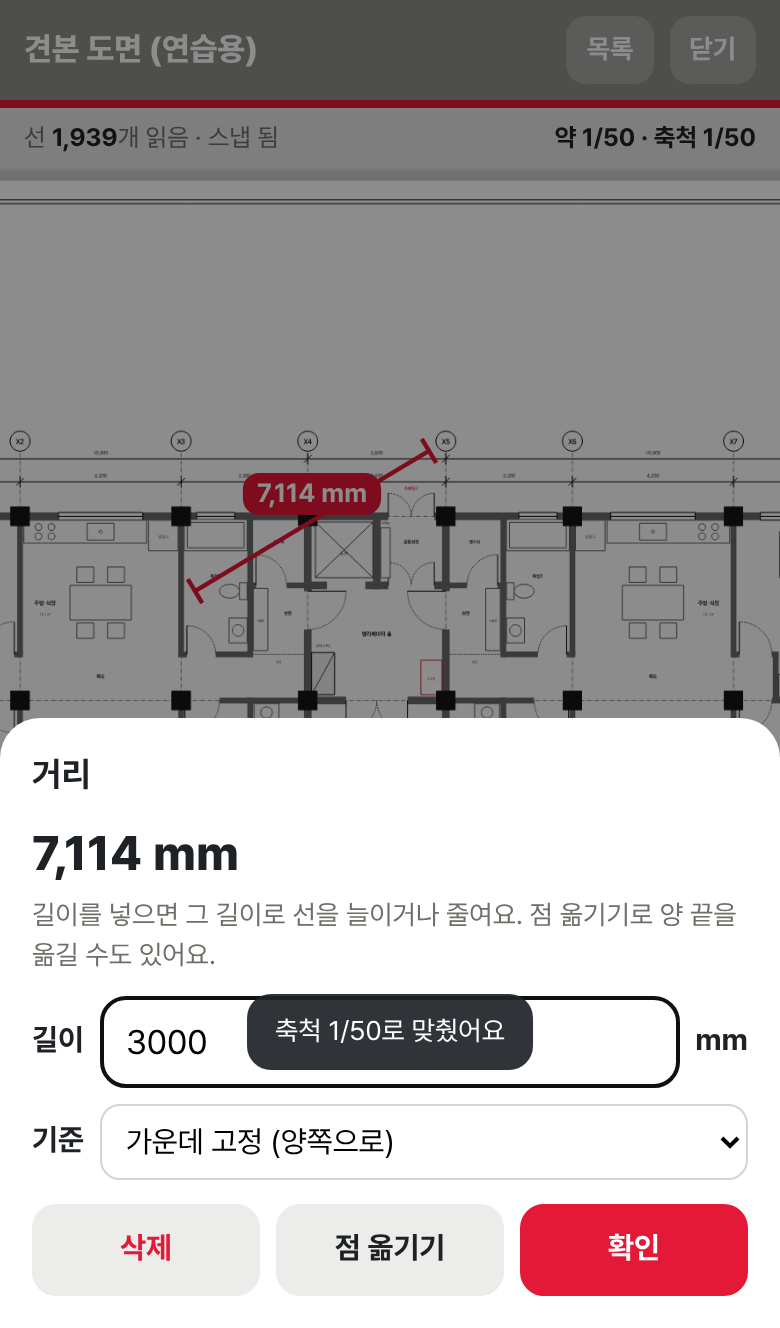
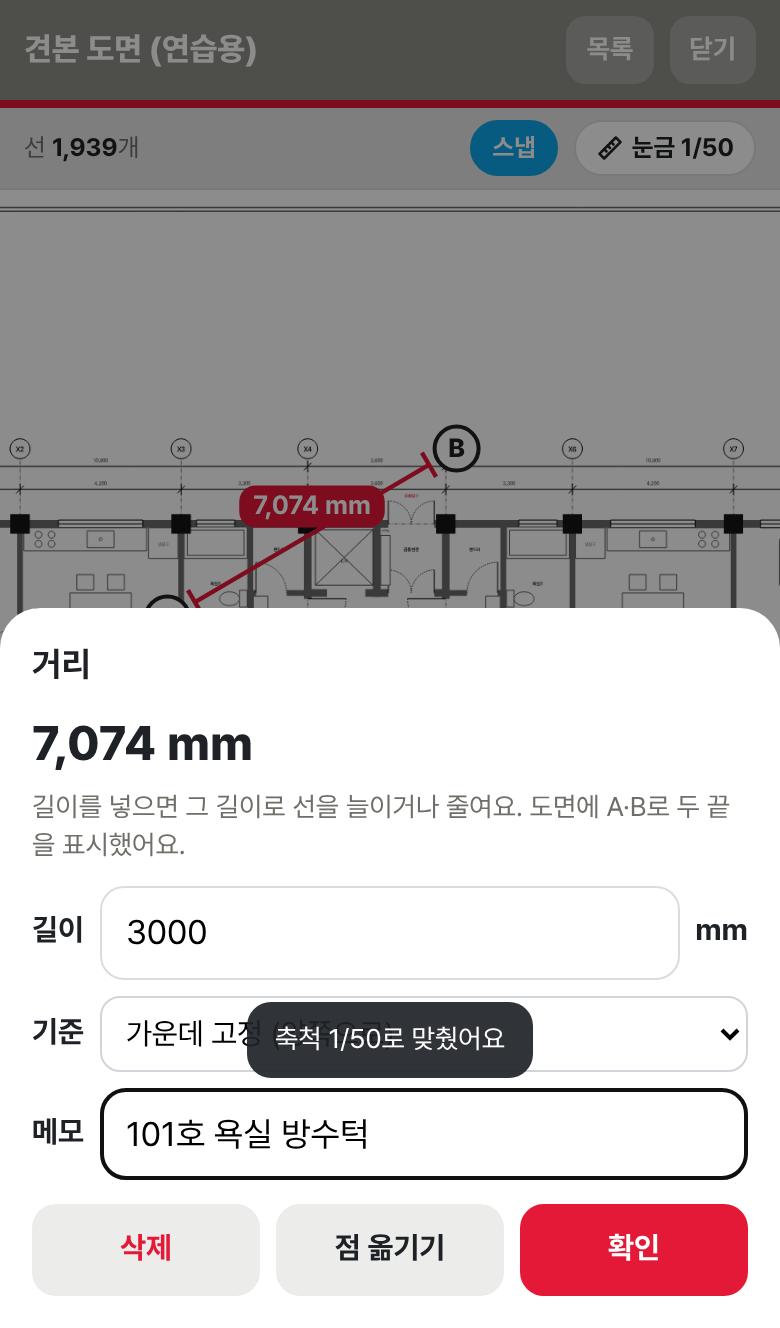
4.61 측정: 눈금·스냅을 위쪽 칩으로, 이동 안내 문구 삭제, 잰 값 메모 (#106)
Claude-Session: https://claude.ai/code/session_01EtHbhsZCrxUT5zDHCagWW6

diff --git a/measure/index.html b/measure/index.html
@@ -18,8 +18,13 @@ header button,header select{border:0;border-radius:10px;background:rgba(255,255,
 header select option{color:#000}
 #info{position:fixed;left:0;right:0;z-index:4;padding:6px max(12px,var(--sal));font-size:12.5px;color:var(--sub);background:rgba(228,230,227,.92);border-bottom:1px solid var(--line);display:flex;gap:8px;align-items:center}
 #info b{color:var(--ink)}
-#info .sc{margin-left:auto;font-weight:700;color:var(--ink);white-space:nowrap}
-#info .sc.no{color:var(--red)}
+#info #lineInfo{min-width:0;overflow:hidden;text-overflow:ellipsis;white-space:nowrap}
+#info .ichip{border:1px solid var(--line);background:#fff;border-radius:999px;font:inherit;font-size:12.5px;font-weight:700;padding:4px 10px;color:var(--ink);white-space:nowrap;display:inline-flex;align-items:center;gap:4px}
+#info .ichip svg{width:14px;height:14px;fill:none;stroke:currentColor;stroke-width:2.2;stroke-linecap:round;stroke-linejoin:round}
+#info .ichip.snap{margin-left:auto;color:var(--sub)}
+#info .ichip.snap.on{background:var(--snap);border-color:var(--snap);color:#fff}
+#info .ichip.sc.no{color:var(--red);border-color:var(--red)}
+#info .ichip.sc.on{background:var(--ink);border-color:var(--ink);color:#fff}
 #stage{position:fixed;left:0;right:0;bottom:0;overflow:hidden;touch-action:none;background:#D3D6D2}
 #world{position:absolute;left:0;top:0;transform-origin:0 0;will-change:transform}
 #world canvas{display:block;background:#fff;box-shadow:0 2px 16px rgba(0,0,0,.18)}
@@ -83,7 +88,7 @@ header select option{color:#000}
   <button id="lsBtn">목록</button>
   <button id="openBtn">도면 열기</button>
 </header>
-<div id="info"><span id="lineInfo">도면을 열어 주세요</span><span class="sc no" id="scInfo"></span></div>
+<div id="info"><span id="lineInfo">도면을 열어 주세요</span><button class="ichip snap on" id="snapBtn" hidden>스냅</button><button class="ichip sc no" id="scInfo" hidden></button></div>
 <div id="stage">
   <div id="world"><canvas id="base"></canvas></div>
   <canvas id="detail"></canvas>
@@ -94,13 +99,11 @@ header select option{color:#000}
 <div id="bar">
   <div id="tools">
     <button data-m="view" class="on"><svg viewBox="0 0 24 24"><path d="M12 3v18M3 12h18M12 3l-3 3M12 3l3 3M12 21l-3-3M12 21l3-3M3 12l3-3M3 12l3 3M21 12l-3-3M21 12l-3 3"/></svg>이동</button>
-    <button data-m="cal"><svg viewBox="0 0 24 24"><path d="M3 17 17 3l4 4L7 21z"/><path d="M7 13l2 2M10 10l2 2M13 7l2 2"/></svg>눈금</button>
     <button data-m="dist"><svg viewBox="0 0 24 24"><path d="M4 12h16M4 8v8M20 8v8M7 9l-3 3 3 3M17 9l3 3-3 3"/></svg>거리</button>
     <button data-m="area"><svg viewBox="0 0 24 24"><path d="M4 7 13 3l7 7-4 10H6z" fill="currentColor" fill-opacity=".18"/></svg>면적</button>
     <button data-m="gap"><svg viewBox="0 0 24 24"><path d="M3 5h18M3 19h18M12 5v14M9 8l3-3 3 3M9 16l3 3 3-3"/></svg>선 간격</button>
-    <button class="snap on" id="snapBtn"><svg viewBox="0 0 24 24"><path d="M6 3v8a6 6 0 0 0 12 0V3"/><path d="M6 7h4M14 7h4"/></svg>스냅</button>
   </div>
-  <div id="sub"><span id="hint">두 손가락으로 확대·이동해요.</span><button id="areaOk" hidden style="background:var(--red);color:#fff;border-color:var(--red)">면적 완료</button><button id="ptDel" hidden style="color:var(--red)">점 지우기</button><button id="undoBtn" class="ic" aria-label="되돌리기" title="되돌리기"><svg viewBox="0 0 24 24"><path d="M9 14 4 9l5-5"/><path d="M4 9h10a6 6 0 0 1 0 12h-3"/></svg></button><button id="redoBtn" class="ic" aria-label="다시 하기" title="다시 하기"><svg viewBox="0 0 24 24"><path d="m15 14 5-5-5-5"/><path d="M20 9H10a6 6 0 0 0 0 12h3"/></svg></button><button id="clrBtn">지우기</button></div>
+  <div id="sub"><span id="hint"></span><button id="areaOk" hidden style="background:var(--red);color:#fff;border-color:var(--red)">면적 완료</button><button id="ptDel" hidden style="color:var(--red)">점 지우기</button><button id="undoBtn" class="ic" aria-label="되돌리기" title="되돌리기"><svg viewBox="0 0 24 24"><path d="M9 14 4 9l5-5"/><path d="M4 9h10a6 6 0 0 1 0 12h-3"/></svg></button><button id="redoBtn" class="ic" aria-label="다시 하기" title="다시 하기"><svg viewBox="0 0 24 24"><path d="m15 14 5-5-5-5"/><path d="M20 9H10a6 6 0 0 0 0 12h3"/></svg></button><button id="clrBtn">지우기</button></div>
 </div>
 <div id="dock" hidden><div id="dockCap"></div><div class="dk">
   <button id="dkL"></button>
@@ -137,6 +140,7 @@ header select option{color:#000}
   <div class="row" id="itCal" hidden><span style="font-weight:700;white-space:nowrap">실제 길이</span><input id="calMm" type="number" inputmode="decimal"><span style="font-weight:700">mm</span></div>
   <div class="row" id="itLen" hidden><span style="font-weight:700;white-space:nowrap">길이</span><input id="lenMm" type="number" inputmode="decimal"><span style="font-weight:700">mm</span></div>
   <div class="row" id="itFix" hidden><span style="font-weight:700;white-space:nowrap">기준</span><select id="lenFix" style="flex:1;min-width:0;font:inherit;padding:8px;border-radius:10px;border:1px solid #D1D5DB;background:#fff"><option value="a">A점 고정 (처음 찍은 점)</option><option value="b">B점 고정 (나중 찍은 점)</option><option value="m">가운데 고정 (양쪽으로)</option></select></div>
+  <div class="row" id="itMemoR"><span style="font-weight:700;white-space:nowrap">메모</span><input id="itMemo" type="text" maxlength="60" placeholder="예: 101호 욕실 방수턱" style="flex:1;min-width:0"></div>
   <p id="itVol" style="font-weight:700;color:var(--ink)"></p>
   <div class="btns"><button id="itDel" style="color:var(--red)">삭제</button><button id="itMove">점 옮기기</button><button class="pri" id="itOk">확인</button></div>
 </div></div>
@@ -202,8 +206,8 @@ function listItems(){
   $("#lsSum").innerHTML=A.length?`<div class="lssum"><small>면적 합계 (${A.length}개)</small><b>${S.mmPerU?f2(sa)+" m²":"눈금 없음"}</b></div><div class="lssum"><small>부피 합계</small><b>${sv?f2(sv)+" m³":"-"}</b></div>`:"";
   const row=(it,no,cls,t1,t2)=>`<button class="lsrow" data-i="${S.items.indexOf(it)}"><span class="no ${cls}">${no}</span><span style="flex:1;min-width:0"><b>${t1}</b><small>${t2}</small></span><span style="color:var(--sub)">›</span></button>`;
   let h=A.map((it,i)=>{ const m=S.mmPerU?areaM2(it.pts):0, per=S.mmPerU?polyLen(it.pts,true)*S.mmPerU/1000:0;
-    return row(it,i+1,"","면적 "+(i+1)+" · "+(S.mmPerU?f2(m)+" m²":"눈금 없음"), (it.depth>0&&S.mmPerU?`깊이 ${+(it.depth/1000).toFixed(3)} m · 부피 ${f2(m*it.depth/1000)} m³ · `:"깊이 없음 · ")+(S.mmPerU?`둘레 ${per.toFixed(2)} m`:"")); }).join("");
-  h+=O.map((it,i)=>row(it,KIND[it.t].slice(0,1),it.t==="cal"?"c":"d",KIND[it.t]+" · "+itemTxt(it),it.t==="cal"?"눈금 기준선":it.t==="gap"?"선에서 수직 간격":"두 점 사이")).join("");
+    return row(it,i+1,"","면적 "+(i+1)+" · "+(S.mmPerU?f2(m)+" m²":"눈금 없음"), (it.memo?"메모: "+esc(it.memo)+" · ":"")+(it.depth>0&&S.mmPerU?`깊이 ${+(it.depth/1000).toFixed(3)} m · 부피 ${f2(m*it.depth/1000)} m³ · `:"깊이 없음 · ")+(S.mmPerU?`둘레 ${per.toFixed(2)} m`:"")); }).join("");
+  h+=O.map((it,i)=>row(it,KIND[it.t].slice(0,1),it.t==="cal"?"c":"d",KIND[it.t]+" · "+esc(itemTxt({...it,memo:""})),(it.memo?"메모: "+esc(it.memo):it.t==="cal"?"눈금 기준선":it.t==="gap"?"선에서 수직 간격":"두 점 사이"))).join("");
   $("#lsList").innerHTML=h||`<p>아직 잰 값이 없어요. 아래 도구로 재 보세요.</p>`;
 }
 $("#lsList").onclick=e=>{ const b=e.target.closest("[data-i]"); if(!b) return; const it=S.items[+b.dataset.i]; if(!it) return;
@@ -271,7 +275,7 @@ async function openPage(n){
   toast("선 읽는 중…",30000);
   const t0=performance.now(); await extract(S.page);
   const n2=S.nseg;
-  $("#lineInfo").innerHTML=n2?`선 <b>${n2.toLocaleString()}</b>개 읽음 · 스냅 됨`:`선 정보가 없는 도면(스캔·이미지)이라 <b>스냅이 안 돼요</b>`;
+  $("#lineInfo").innerHTML=n2?`선 <b>${n2.toLocaleString()}</b>개`:`선 정보가 없는 도면(스캔·이미지)이라 <b>스냅이 안 돼요</b>`; showScale();
   $("#toast").hidden=true;
   if(!n2) toast("이 도면은 선 정보가 없어 손으로 찍어서 재야 해요",3500);
   console.log("segs",n2,"ms",Math.round(performance.now()-t0));
@@ -377,8 +381,12 @@ const scKey=()=>"measure-scale:"+S.key+":"+S.pn;
 function loadScale(){ S.mmPerU=0; S.scSrc=""; try{ const o=JSON.parse(localStorage.getItem(LSP+scKey())||"null"); if(o&&o.k>0){ S.mmPerU=o.k; S.scSrc=o.src||""; } }catch(e){} showScale(); }
 function saveScale(k,src){ S.mmPerU=k; S.scSrc=src; try{ localStorage.setItem(LSP+scKey(),JSON.stringify({k,src})); }catch(e){} showScale(); draw(); }
 function showScale(){ const e=$("#scInfo");
-  if(!S.mmPerU){ e.textContent=S.pdf?"눈금 없음":""; e.className="sc no"; return; }
-  const N=S.mmPerU/PT_MM; e.textContent=`약 1/${N>=10?Math.round(N):N.toFixed(1)}`+(S.scSrc?` · ${S.scSrc}`:""); e.className="sc"; }
+  const ic='<svg viewBox="0 0 24 24"><path d="M3 17 17 3l4 4L7 21z"/><path d="M7 13l2 2M10 10l2 2M13 7l2 2"/></svg>';
+  e.hidden=!S.pdf; $("#snapBtn").hidden=!S.pdf||!S.nseg; const on=S.mode==="cal"?" on":"";
+  if(!S.mmPerU){ e.innerHTML=ic+"눈금 맞추기"; e.className="ichip sc no"+on; return; }
+  const N=S.mmPerU/PT_MM; e.innerHTML=ic+`눈금 1/${N>=10?Math.round(N):N.toFixed(1)}`; e.title=S.scSrc||""; e.className="ichip sc"+on; }
+/* 4.61 눈금은 위 정보줄의 눈금 칩으로 (자주 안 고치니 아래 도구에서 뺌) */
+$("#scInfo").onclick=()=>{ if(!S.pdf) return; if(S.mode==="cal") setMode("view"); else setMode("cal"); };
 const fmt=mm=>{ const a=Math.abs(mm); return (a>=100?Math.round(mm).toLocaleString():a>=10?mm.toFixed(1):mm.toFixed(2))+" mm"; };
 const label=du=>S.mmPerU?fmt(du*S.mmPerU):`종이 ${(du*PT_MM).toFixed(1)}mm · 눈금 없음`;
 
@@ -402,7 +410,7 @@ $("#lenOk").onclick=()=>{ const v=parseFloat($("#lenIn").value); if(!(v>0)||!cal
   saveScale(v/du,"치수 "+Math.round(v).toLocaleString()+"mm로 맞춤"); $("#lenDlg").hidden=true; calPend=null; S.first=null; toast("눈금을 맞췄어요. 이제 거리·선 간격·면적을 재 보세요",3000); setMode("view"); askAll(); };
 
 /* ---------- 도구 ---------- */
-const HINT={view:"한 손가락으로 끌어 이동, 두 손가락으로 확대해요.",cal:"길이를 아는 두 점을 차례로 찍어요. 손가락 위 십자선이 찍힐 자리예요.",dist:"두 점을 차례로 찍으면 거리가 나와요.",gap:"첫 번째 선을 찍고, 다음 선(또는 점)을 찍으면 수직 간격이 나와요.",area:"모서리를 차례로 찍고, 첫 점을 다시 찍으면 면적이 나와요."};
+const HINT={view:"",cal:"길이를 아는 두 점을 차례로 찍어요. 손가락 위 십자선이 찍힐 자리예요.",dist:"두 점을 차례로 찍으면 거리가 나와요.",gap:"첫 번째 선을 찍고, 다음 선(또는 점)을 찍으면 수직 간격이 나와요.",area:"모서리를 차례로 찍고, 첫 점을 다시 찍으면 면적이 나와요."};
 /* 면적: 신발끈 공식 (도면 단위² → m²) */
 const polyArea=P=>{ let a=0; for(let i=0;i<P.length;i++){ const p=P[i],q=P[(i+1)%P.length]; a+=p.x*q.y-q.x*p.y; } return Math.abs(a)/2; };
 const polyLen=(P,close)=>{ let L=0; for(let i=0;i<P.length-(close?0:1);i++){ const p=P[i],q=P[(i+1)%P.length]; L+=Math.hypot(q.x-p.x,q.y-p.y); } return L; };
@@ -442,7 +450,7 @@ const KIND={dist:"거리",gap:"선 간격",area:"면적",cal:"눈금 기준"};
 let edIt=null;
 function labAt(p){ for(let i=S.lab.length-1;i>=0;i--){ const l=S.lab[i]; if(p.x>=l.x-6&&p.x<=l.x+l.w+6&&p.y>=l.y-8&&p.y<=l.y+l.h+8) return l.it; } return null; }
 function openItem(it){ edIt=it; S.sel=null; areaBtn(); setHint();
-  $("#itT").textContent=KIND[it.t]||"측정"; $("#itDep").hidden=it.t!=="area"; $("#itCal").hidden=it.t!=="cal"; $("#itLen").hidden=$("#itFix").hidden=!(it.t==="dist"&&S.mmPerU); $("#itVol").textContent="";
+  $("#itT").textContent=KIND[it.t]||"측정"; $("#itDep").hidden=it.t!=="area"; $("#itCal").hidden=it.t!=="cal"; $("#itLen").hidden=$("#itFix").hidden=!(it.t==="dist"&&S.mmPerU); $("#itVol").textContent=""; $("#itMemo").value=it.memo||"";
   if(it.t==="area"){ const per=polyLen(it.pts,true);
     $("#itV").textContent=S.mmPerU?f2(areaM2(it.pts))+" m²":"눈금 없음";
     $("#itP").textContent=S.mmPerU?`둘레 ${(per*S.mmPerU/1000).toFixed(2)} m · 점 ${it.pts.length}개. 깊이(두께)를 넣으면 부피를 구해요.`:"눈금을 먼저 맞춰 주세요.";
@@ -456,6 +464,7 @@ function openItem(it){ edIt=it; S.sel=null; areaBtn(); setHint();
 function volTxt(){ const d=parseFloat($("#depIn").value); $("#itVol").textContent=edIt&&edIt.t==="area"&&S.mmPerU&&d>0?`부피 ${f2(areaM2(edIt.pts)*d/1000)} m³ (${f2(areaM2(edIt.pts))} m² × ${+(d/1000).toFixed(3)} m)`:""; }
 $("#depIn").oninput=volTxt;
 $("#itOk").onclick=()=>{ const it=edIt; if(!it) return;
+  { const m=$("#itMemo").value.trim(); if(m) it.memo=m; else delete it.memo; }
   if(it.t==="area"){ const d=parseFloat($("#depIn").value); it.depth=d>0?d:0; }
   if(it.t==="dist"&&S.mmPerU){ const v=parseFloat($("#lenMm").value), du=Math.hypot(it.b.x-it.a.x,it.b.y-it.a.y);   /* 4.59 길이 넣어 선 길이 바꾸기 */
     if(v>0&&du>1e-9&&Math.abs(v-du*S.mmPerU)>=0.5){ const nu=v/S.mmPerU, ux=(it.b.x-it.a.x)/du, uy=(it.b.y-it.a.y)/du, f=$("#lenFix").value;
@@ -478,10 +487,10 @@ function movePt(it,i,h,live){
   if(it.t==="cal"&&!live) calFix(it); }
 function setMode(m,fromDlg){
   if(m==="cal"&&!fromDlg){ $("#calN").value=S.mmPerU&&S.scSrc.startsWith("축척")?S.scSrc.slice(5):""; $("#calDlg").hidden=false; return; }
-  S.mode=m; S.first=null; S.poly=[]; S.sel=null; areaBtn(); document.querySelectorAll("#tools [data-m]").forEach(b=>b.classList.toggle("on",b.dataset.m===m)); setHint(); draw();
+  S.mode=m; S.first=null; S.poly=[]; S.sel=null; areaBtn(); document.querySelectorAll("#tools [data-m]").forEach(b=>b.classList.toggle("on",b.dataset.m===m)); showScale(); setHint(); draw();
 }
 $("#tools").onclick=e=>{ const b=e.target.closest("[data-m]"); if(b){ if(!S.pdf) return EMB?null:openDlg(); setMode(b.dataset.m); } };
-$("#snapBtn").onclick=()=>{ S.snap=!S.snap; $("#snapBtn").classList.toggle("on",S.snap); toast(S.snap?"스냅 켬: 선 끝·교차점·선 위에 붙어요":"스냅 끔: 찍은 자리 그대로 재요"); };
+$("#snapBtn").onclick=()=>{ S.snap=!S.snap; $("#snapBtn").classList.toggle("on",S.snap); $("#snapBtn").textContent=S.snap?"스냅":"스냅 끔"; toast(S.snap?"스냅 켬: 선 끝·교차점·선 위에 붙어요":"스냅 끔: 찍은 자리 그대로 재요"); };
 /* 4.53 되돌리기·다시 하기: 잰 값이 바뀔 때마다(손을 뗀 뒤) 기록해 두고 앞뒤로 옮긴다 */
 const HIS={list:["[]"],i:0};
 function commit(){ const j=JSON.stringify(S.items); if(j===HIS.list[HIS.i]) return; HIS.list=HIS.list.slice(0,HIS.i+1); HIS.list.push(j); if(HIS.list.length>60) HIS.list.shift(); HIS.i=HIS.list.length-1; }
@@ -529,10 +538,12 @@ async function renderDetail(){
 /* 4.50 잰 값은 도면·쪽마다 이 휴대폰에 저장 (핀 화면에서도 켜고 끄며 본다). 글자(txt)도 같이 적어 둔다 */
 const itKey=(k,n)=>"measure-items:"+(k||S.key)+":"+(n||S.pn);
 function loadItems(){ try{ const a=JSON.parse(localStorage.getItem(LSP+itKey())||"[]"); return Array.isArray(a)?a.map(it=>{ const o={...it}; delete o.txt; return o; }):[]; }catch(e){ return []; } }
-function itemTxt(it){ if(it.t==="area") return areaLabel(it.pts,it.depth); const du=Math.hypot(it.b.x-it.a.x,it.b.y-it.a.y);
-  return it.t==="cal"?`기준 ${Math.round(it.mm||du*S.mmPerU).toLocaleString()} mm`:label(du)+(it.par?" · 평행":""); }
+/* 4.61 메모: 잰 값 글자 뒤에 붙여 보여 준다 (길면 줄여서) */
+const memoSfx=it=>it&&it.memo?" · "+(it.memo.length>18?it.memo.slice(0,17)+"…":it.memo):"";
+function itemTxt(it){ if(it.t==="area") return areaLabel(it.pts,it.depth)+memoSfx(it); const du=Math.hypot(it.b.x-it.a.x,it.b.y-it.a.y);
+  return (it.t==="cal"?`기준 ${Math.round(it.mm||du*S.mmPerU).toLocaleString()} mm`:label(du)+(it.par?" · 평행":""))+memoSfx(it); }
 let svT=null;
-function saveItems(){ if(!S.key||!S.page) return; if(!g&&!S.sel) commit(); histBtns(); try{ const a=S.items.map(it=>({...it,txt:itemTxt(it)})); if(a.length) localStorage.setItem(LSP+itKey(),JSON.stringify(a)); else localStorage.removeItem(LSP+itKey()); }catch(e){} }
+function saveItems(){ if(!S.key||!S.page) return; if(!g&&!S.sel) commit(); histBtns(); try{ const a=S.items.map(it=>({...it,txt:itemTxt(it),tb:itemTxt({...it,memo:""})})); if(a.length) localStorage.setItem(LSP+itKey(),JSON.stringify(a)); else localStorage.removeItem(LSP+itKey()); }catch(e){} }
 function draw(){
   const c=$("#ov"), x=c.getContext("2d"); x.setTransform(dpr,0,0,dpr,0,0); x.clearRect(0,0,c.width,c.height);
   if(!S.page) return;
@@ -577,10 +588,10 @@ function drawItem(x,it){
   // 양 끝 짧은 가로 표시
   const L=Math.hypot(b.x-a.x,b.y-a.y)||1, nx=-(b.y-a.y)/L*7, ny=(b.x-a.x)/L*7;
   for(const p of [a,b]){ x.beginPath(); x.moveTo(p.x-nx,p.y-ny); x.lineTo(p.x+nx,p.y+ny); x.stroke(); }
-  const t=it.t==="cal"?`기준 ${Math.round(it.mm||du*S.mmPerU).toLocaleString()} mm`:label(du)+(it.par?" · 평행":"");
+  const t=(it.t==="cal"?`기준 ${Math.round(it.mm||du*S.mmPerU).toLocaleString()} mm`:label(du)+(it.par?" · 평행":""))+memoSfx(it);
   x.font="700 13px Pretendard,-apple-system,sans-serif"; const tw=x.measureText(t).width+14, VW=x.canvas.width/dpr, VH=x.canvas.height/dpr;
   const mx=Math.max(tw/2+4,Math.min(VW-tw/2-4,(a.x+b.x)/2)), my=Math.max(28,Math.min(VH-4,(a.y+b.y)/2));   // 글씨가 화면 밖으로 나가지 않게
-  if(!it.ghost&&S.sel!==it&&(L<tw*0.6||!zoomedIn())){ x.restore(); return; }   // 4.55 작게 보일 땐 글자 숨김 (확대하면 나옴)
+  if(!it.ghost&&S.sel!==it&&(L<(tw-x.measureText(memoSfx(it)).width)*0.6||!zoomedIn())){ x.restore(); return; }   // 4.55 작게 보일 땐 글자 숨김 (확대하면 나옴)
   if(!it.ghost) S.lab.push({it,x:mx-tw/2,y:my-24,w:tw,h:21});
   x.fillStyle=col; roundRect(x,mx-tw/2,my-24,tw,21,8); x.fill(); x.fillStyle="#fff"; x.textAlign="center"; x.textBaseline="middle"; x.fillText(t,mx,my-13.5);
   x.restore();
@@ -593,11 +604,11 @@ function drawArea(x,P,ghost,it){
   x.fillStyle="rgba(227,25,55,"+(ghost?.10:.16)+")"; if(Q.length>2) x.fill();
   x.strokeStyle="#E31937"; x.lineWidth=2.2; if(ghost) x.setLineDash([6,4]); x.stroke(); x.setLineDash([]);
   x.fillStyle="#E31937"; for(const q of Q){ x.beginPath(); x.arc(q.x,q.y,3.5,0,7); x.fill(); }
-  if(P.length>=3){ const t=areaLabel(P,it&&it.depth); let cx=0,cy=0; for(const q of Q){ cx+=q.x; cy+=q.y; } cx/=Q.length; cy/=Q.length;
+  if(P.length>=3){ const t=areaLabel(P,it&&it.depth)+memoSfx(it); let cx=0,cy=0; for(const q of Q){ cx+=q.x; cy+=q.y; } cx/=Q.length; cy/=Q.length;
     x.font="700 13px Pretendard,-apple-system,sans-serif"; const tw=x.measureText(t).width+14, VW=x.canvas.width/dpr, VH=x.canvas.height/dpr;
     const mx=Math.max(tw/2+4,Math.min(VW-tw/2-4,cx)), my=Math.max(14,Math.min(VH-14,cy));
     let bw=0, bh=0; if(it&&!ghost&&S.sel!==it){ const xs=Q.map(q=>q.x), ys=Q.map(q=>q.y); bw=Math.max(...xs)-Math.min(...xs); bh=Math.max(...ys)-Math.min(...ys); }
-    if(it&&!ghost&&S.sel!==it&&(bw<tw*0.5||bh<16||!zoomedIn())){ x.restore(); return; }
+    if(it&&!ghost&&S.sel!==it&&(bw<(tw-x.measureText(memoSfx(it)).width)*0.5||bh<16||!zoomedIn())){ x.restore(); return; }
     if(it) S.lab.push({it,x:mx-tw/2,y:my-10.5,w:tw,h:21});
     x.globalAlpha=ghost?.8:1; x.fillStyle="#E31937"; roundRect(x,mx-tw/2,my-10.5,tw,21,8); x.fill(); x.fillStyle="#fff"; x.textAlign="center"; x.textBaseline="middle"; x.fillText(t,mx,my); }
   x.restore();

diff --git a/guide/index.html b/guide/index.html
@@ -254,12 +254,12 @@ footer{text-align:center;color:var(--sub);font-size:13px;padding:10px 16px 30px}
     <h3 style="margin-top:18px">길이·선 간격·면적 재기</h3>
     <ol class="steps">
       <li>도면 화면 위쪽 <b>자 모양 버튼</b>을 누르면 보던 도면·쪽이 측정 화면으로 열려요. 도면과 핀은 바뀌지 않아요.</li>
-      <li>처음 한 번 <b>눈금</b>을 맞춰요. 치수선 양 끝처럼 길이를 아는 두 점을 찍고 실제 치수(mm)를 넣는 게 가장 정확해요. 축척(1/50 등)으로 맞출 수도 있어요.</li>
+      <li>처음 한 번 위쪽 <b>눈금</b> 칩을 눌러 눈금을 맞춰요. 치수선 양 끝처럼 길이를 아는 두 점을 찍고 실제 치수(mm)를 넣는 게 가장 정확해요. 축척(1/50 등)으로 맞출 수도 있어요.</li>
       <li><b>거리</b>는 두 점을 차례로 찍고, <b>선 간격</b>은 첫 번째 선을 찍은 뒤 다음 선을 찍으면 수직 간격이 나와요.</li>
       <li><b>면적</b>은 모서리를 차례로 찍고 첫 점을 다시 찍거나 아래 가운데 빨간 <b>✓ 버튼</b>을 누르면 m²와 둘레가 나와요.</li>
       <li>아래 ↶ ↷ 아이콘으로 되돌리기·다시 하기를 할 수 있어요. 하나를 다 재면 <b>이동</b>으로 돌아가요. 눈금·거리의 두 번째 점은 선에 <b>직각</b>인 자리(⊥ 표시)에도 붙어요. 위쪽 <b>목록</b>에서 면적·부피 합계와 잰 값을 모아 보고, 누르면 그 자리로 가요.</li>
       <li>잰 값(빨간 글자)을 누르면 창이 열려요. <b>점 옮기기</b>로 흰 점(또는 그 아래)을 끌어 고치거나(점은 손가락 위로 따라오고 값이 바로 바뀌어요) <b>삭제</b>할 수 있고, 면적은 <b>깊이(mm)</b>를 넣으면 부피(m³)도 나와요. 면적의 점 옮기기에서는 변 가운데 <b>＋</b>를 끌거나 눌러 점을 더하고, 점을 눌러 고른 뒤 <b>점 지우기</b>로 뺄 수 있어요.</li>
-      <li>캐드에서 뽑은 PDF는 선 끝·교차점·선 위에 <b>스냅</b>이 붙어요. 찍을 때는 손가락 위 십자선과 돋보기를 보고 맞추세요. 다 쓰면 <b>닫기</b>.</li>
+      <li>캐드에서 뽑은 PDF는 선 끝·교차점·선 위에 <b>스냅</b>이 붙어요(위쪽 스냅 칩으로 켜고 끔). 잰 값을 누르면 <b>메모</b>를 남길 수 있어요. 찍을 때는 손가락 위 십자선과 돋보기를 보고 맞추세요. 다 쓰면 <b>닫기</b>.</li>
     </ol>
     <div class="tip">잰 치수와 눈금은 이 휴대폰에 도면·쪽마다 저장돼요. 측정을 닫아도 남아 있고, 핀 화면 위쪽 <b>치수</b> 스위치로 도면 위에 보이거나 숨길 수 있어요. 여러 쪽 도면은 눈금을 맞출 때 다른 쪽에도 쓸지 물어보고, 쪽마다 따로 고칠 수도 있어요. 스캔한 도면은 선 정보가 없어 스냅 없이 손으로 찍어 재요.</div>
   </section>

diff --git a/index.html b/index.html
@@ -1282,7 +1282,7 @@ i.lq>svg{position:absolute;left:0;top:0;width:100%;height:100%;overflow:visible}
 
 <script>
 "use strict";
-const APP_VER = "4.60";
+const APP_VER = "4.61";
 /* 3.97 체험판(/try/): 서버 없이 이 휴대폰에만 저장. 진짜 핀톡과 같은 주소(github.io)라서
    저장 공간이 섞이지 않게 도면 DB 이름을 따로 쓰고, localStorage 이름 앞에 "try:"를 붙인다 */
 const TRY=!!window.PINTALK_TRY;
@@ -2586,14 +2586,14 @@ function measSvg(){
   const tag=(t,x,y)=>{ const w=tw(t); return `<g><rect x="${x-w/2}" y="${y-10.5}" width="${w}" height="21" rx="8" fill="${ink}" fill-opacity=".9"/><text x="${x}" y="${y+0.5}" fill="#fff" font-size="12.5" font-weight="700" text-anchor="middle" dominant-baseline="middle">${esc(t)}</text></g>`; };
   for(const it of V.meas){ if(!it||!it.t) continue;
     if(it.t==="area"&&it.pts&&it.pts.length>2){ const Q=it.pts.map(N); let cx=0,cy=0; Q.forEach(([x,y])=>{cx+=x;cy+=y;}); cx/=Q.length; cy/=Q.length;
-      const xs=Q.map(q=>q[0]), ys=Q.map(q=>q[1]), big=zoomed&&Math.max(...xs)-Math.min(...xs)>=tw(it.txt||"")*0.5&&Math.max(...ys)-Math.min(...ys)>=16;   // 4.55 작게 보일 땐 글자 숨김
+      const xs=Q.map(q=>q[0]), ys=Q.map(q=>q[1]), big=zoomed&&Math.max(...xs)-Math.min(...xs)>=tw(it.tb||it.txt||"")*0.5&&Math.max(...ys)-Math.min(...ys)>=16;   // 4.55 작게 보일 땐 글자 숨김
       h+=`<polygon points="${Q.map(q=>q.join(",")).join(" ")}" fill="${ink}" fill-opacity=".08" stroke="${ink}" stroke-width="1.8" stroke-linejoin="round"/>`+(big?tag(it.txt||"",cx,cy):""); continue; }
     if(!it.a||!it.b) continue;
     const [ax,ay]=N(it.a),[bx,by]=N(it.b), L=Math.hypot(bx-ax,by-ay)||1, nx=-(by-ay)/L*6, ny=(bx-ax)/L*6, col=it.t==="cal"?"#0EA5E9":ink;
     if(it.t==="gap"&&it.line){ const p1=N({x:it.line[0],y:it.line[1]}), p2=N({x:it.line[2],y:it.line[3]}), nr=Math.hypot(ax-p1[0],ay-p1[1])<Math.hypot(ax-p2[0],ay-p2[1])?p1:p2;
       h+=`<line x1="${nr[0]}" y1="${nr[1]}" x2="${ax}" y2="${ay}" stroke="${col}" stroke-width="1.2" stroke-dasharray="5 4"/>`; }
     h+=`<path d="M${ax},${ay}L${bx},${by}M${ax-nx},${ay-ny}L${ax+nx},${ay+ny}M${bx-nx},${by-ny}L${bx+nx},${by+ny}" stroke="${col}" stroke-width="1.8" fill="none"/>`;
-    if(zoomed&&L>=tw(it.txt||"")*0.6) h+=tag(it.txt||"",(ax+bx)/2,(ay+by)/2-13); }
+    if(zoomed&&L>=tw(it.tb||it.txt||"")*0.6) h+=tag(it.txt||"",(ax+bx)/2,(ay+by)/2-13); }
   return h;
 }
 async function showPage(n){

diff --git a/sw.js b/sw.js
@@ -1,5 +1,5 @@
 // 핀톡(도면 핀) 앱: 오프라인에서도 열리도록 앱 파일을 저장해 둔다 (도면·핀 기록은 IndexedDB에 따로 저장됨)
-const CACHE = "pintalk-v185";
+const CACHE = "pintalk-v186";
 const FILES=["./","./index.html","./manifest.webmanifest","./icon-180.png","./icon-192.png","./icon-512.png","./dwg2pdf.js","./sample.pdf","lib/pdfjs.min.js","lib/pdfjs.worker.min.js","lib/pdf-lib.min.js","lib/fontkit.umd.min.js","fonts/KoPubDotum-Medium.ttf","fonts/PretendardVariable.woff2","lib/exceljs.min.js","tpl/crack.xlsx","lib/firebase-app-compat.js","lib/firebase-messaging-compat.js","try/","measure/","manifest-try.webmanifest"];
 self.addEventListener("install",e=>{e.waitUntil(caches.open(CACHE).then(c=>c.addAll(FILES.map(u=>new Request(u,{cache:"reload"})))));self.skipWaiting();});
 self.addEventListener("activate",e=>{e.waitUntil(caches.keys().then(ks=>Promise.all(ks.filter(k=>k.startsWith("pintalk-")&&k!==CACHE).map(k=>caches.delete(k)))));self.clients.claim();});
